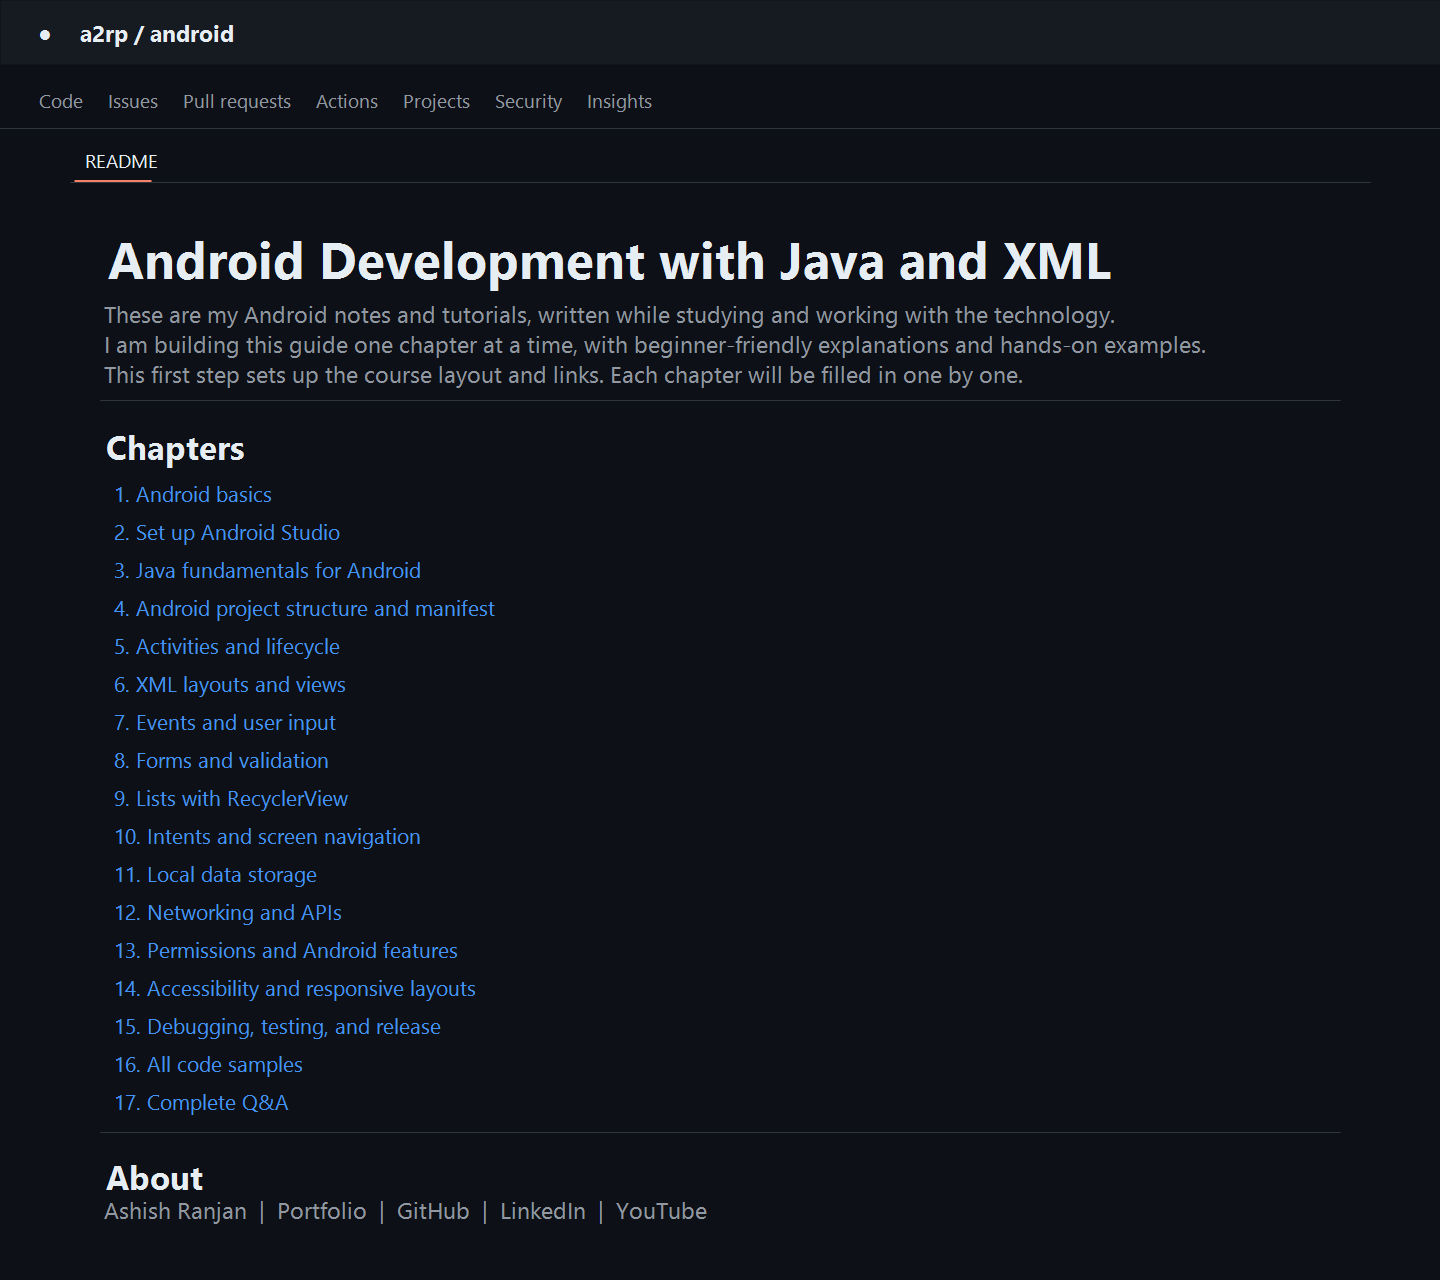
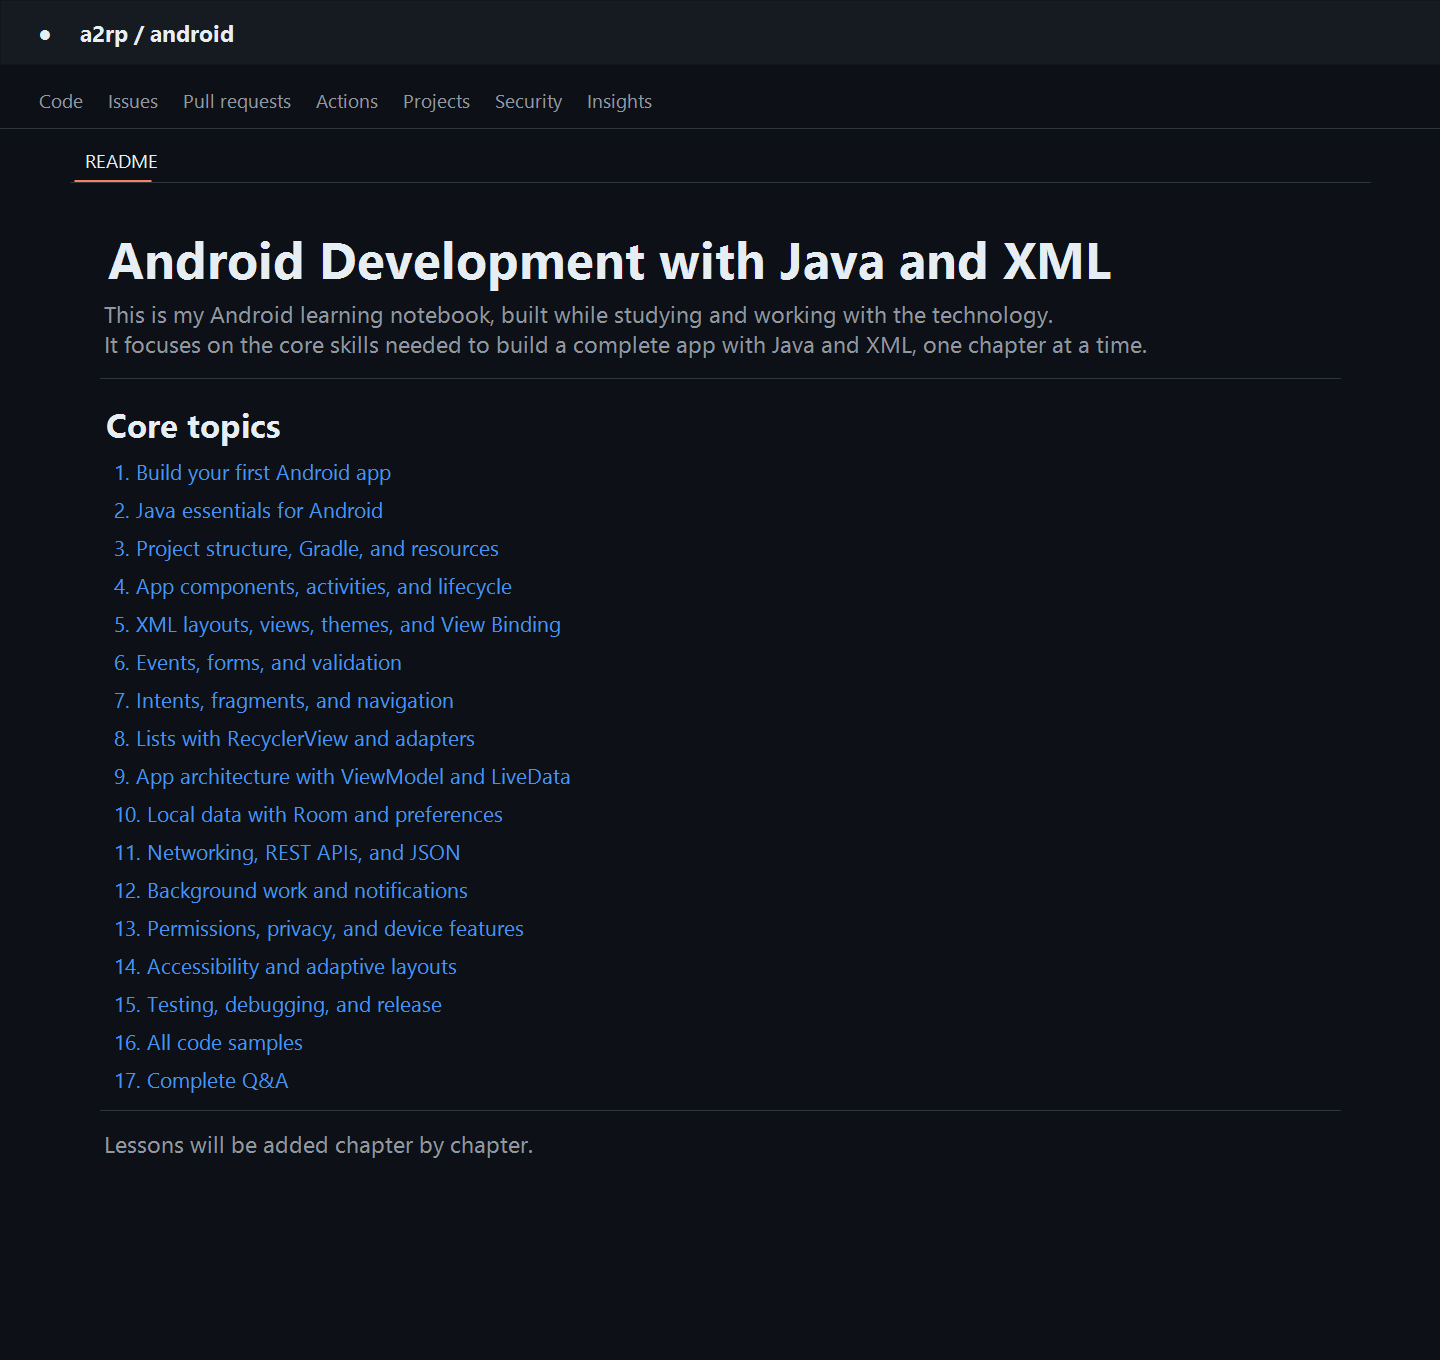
Refine Android course to core topics

diff --git a/README.md b/README.md
@@ -1,28 +1,28 @@
 # Android Development with Java and XML
 
-These are my Android notes and tutorials, written while studying and working with the technology. I am building this guide one chapter at a time, with beginner-friendly explanations and hands-on examples.
+This is my Android learning notebook, built while studying and working with the technology. It focuses on the core skills needed to build a complete app with Java and XML, with each chapter added step by step.
 
-This first step sets up the course layout and links. Each chapter will be filled in one by one.
+## Core topics
 
-## Chapters
-
-1. [Android basics](chapters/01-android-basics.md)
-2. [Set up Android Studio](chapters/02-setup-android-studio.md)
-3. [Java fundamentals for Android](chapters/03-java-fundamentals.md)
-4. [Android project structure and manifest](chapters/04-project-structure-and-manifest.md)
-5. [Activities and lifecycle](chapters/05-activities-and-lifecycle.md)
-6. [XML layouts and views](chapters/06-xml-layouts-and-views.md)
-7. [Events and user input](chapters/07-events-and-user-input.md)
-8. [Forms and validation](chapters/08-forms-and-validation.md)
-9. [Lists with RecyclerView](chapters/09-lists-and-recyclerview.md)
-10. [Intents and screen navigation](chapters/10-intents-and-navigation.md)
-11. [Local data storage](chapters/11-local-data-storage.md)
-12. [Networking and APIs](chapters/12-networking-and-apis.md)
-13. [Permissions and Android features](chapters/13-permissions-and-platform-features.md)
-14. [Accessibility and responsive layouts](chapters/14-accessibility-and-responsive-layouts.md)
-15. [Debugging, testing, and release](chapters/15-debugging-testing-and-release.md)
+1. [Build your first Android app](chapters/01-first-android-app.md)
+2. [Java essentials for Android](chapters/02-java-for-android.md)
+3. [Project structure, Gradle, and resources](chapters/03-project-structure-and-resources.md)
+4. [App components, activities, and lifecycle](chapters/04-activities-and-lifecycle.md)
+5. [XML layouts, views, themes, and View Binding](chapters/05-xml-layouts-and-viewbinding.md)
+6. [Events, forms, and validation](chapters/06-events-forms-and-validation.md)
+7. [Intents, fragments, and navigation](chapters/07-navigation-intents-and-fragments.md)
+8. [Lists with RecyclerView and adapters](chapters/08-recyclerview-and-adapters.md)
+9. [App architecture with ViewModel and LiveData](chapters/09-architecture-viewmodel-livedata.md)
+10. [Local data with Room and preferences](chapters/10-local-data-room-and-preferences.md)
+11. [Networking, REST APIs, and JSON](chapters/11-networking-and-rest-apis.md)
+12. [Background work and notifications](chapters/12-background-work-and-notifications.md)
+13. [Permissions, privacy, and device features](chapters/13-permissions-and-device-features.md)
+14. [Accessibility and adaptive layouts](chapters/14-accessibility-and-adaptive-ui.md)
+15. [Testing, debugging, and release](chapters/15-debugging-testing-and-release.md)
 16. [All code samples](chapters/98-all-code-samples.md)
 17. [Complete Q&A](chapters/99-complete-q-and-a.md)
+
+The course outline is ready first. I will add the lessons one chapter at a time, with clear explanations and hands-on examples.
 
 ## About
 
@@ -32,3 +32,4 @@ Created by [Ashish Ranjan](https://www.ashishranjan.net/).
 - [GitHub](https://github.com/a2rp)
 - [LinkedIn](https://www.linkedin.com/in/aashishranjan)
 - [YouTube](https://www.youtube.com/@ashishranjan-ashz)
+

diff --git a/chapters/15-debugging-testing-and-release.md b/chapters/15-debugging-testing-and-release.md
@@ -1,8 +1,9 @@
-# 15. Debugging, testing, and release
+# 15. Testing, debugging, and release
 
 [Back to course index](../README.md)
 
 ---
 
-[Previous: Accessibility and responsive layouts](14-accessibility-and-responsive-layouts.md) | [Course index](../README.md) | [Next: All code samples](98-all-code-samples.md)
+[Previous: Accessibility and adaptive layouts](14-accessibility-and-adaptive-ui.md) | [Course index](../README.md) | [Next: All code samples](98-all-code-samples.md)
+
 

diff --git a/chapters/04-activities-and-lifecycle.md b/chapters/04-activities-and-lifecycle.md
@@ -1,0 +1,9 @@
+# 4. App components, activities, and lifecycle
+
+[Back to course index](../README.md)
+
+---
+
+[Previous: Project structure, Gradle, and resources](03-project-structure-and-resources.md) | [Course index](../README.md) | [Next: XML layouts, views, and View Binding](05-xml-layouts-and-viewbinding.md)
+
+

diff --git a/chapters/08-recyclerview-and-adapters.md b/chapters/08-recyclerview-and-adapters.md
@@ -1,0 +1,8 @@
+# 8. Lists with RecyclerView and adapters
+
+[Back to course index](../README.md)
+
+---
+
+[Previous: Intents, fragments, and navigation](07-navigation-intents-and-fragments.md) | [Course index](../README.md) | [Next: App architecture with ViewModel and LiveData](09-architecture-viewmodel-livedata.md)
+

diff --git a/chapters/13-permissions-and-device-features.md b/chapters/13-permissions-and-device-features.md
@@ -1,0 +1,9 @@
+# 13. Permissions, privacy, and device features
+
+[Back to course index](../README.md)
+
+---
+
+[Previous: Background work and notifications](12-background-work-and-notifications.md) | [Course index](../README.md) | [Next: Accessibility and adaptive layouts](14-accessibility-and-adaptive-ui.md)
+
+

diff --git a/chapters/09-architecture-viewmodel-livedata.md b/chapters/09-architecture-viewmodel-livedata.md
@@ -1,0 +1,8 @@
+# 9. App architecture with ViewModel and LiveData
+
+[Back to course index](../README.md)
+
+---
+
+[Previous: Lists with RecyclerView and adapters](08-recyclerview-and-adapters.md) | [Course index](../README.md) | [Next: Local data with Room and preferences](10-local-data-room-and-preferences.md)
+

diff --git a/chapters/11-networking-and-rest-apis.md b/chapters/11-networking-and-rest-apis.md
@@ -1,0 +1,9 @@
+# 11. Networking, REST APIs, and JSON
+
+[Back to course index](../README.md)
+
+---
+
+[Previous: Local data with Room and preferences](10-local-data-room-and-preferences.md) | [Course index](../README.md) | [Next: Background work and notifications](12-background-work-and-notifications.md)
+
+

diff --git a/chapters/14-accessibility-and-adaptive-ui.md b/chapters/14-accessibility-and-adaptive-ui.md
@@ -1,0 +1,8 @@
+# 14. Accessibility and adaptive layouts
+
+[Back to course index](../README.md)
+
+---
+
+[Previous: Permissions and Android device features](13-permissions-and-device-features.md) | [Course index](../README.md) | [Next: Debugging, testing, and release](15-debugging-testing-and-release.md)
+

diff --git a/chapters/05-xml-layouts-and-viewbinding.md b/chapters/05-xml-layouts-and-viewbinding.md
@@ -1,0 +1,9 @@
+# 5. XML layouts, views, themes, and View Binding
+
+[Back to course index](../README.md)
+
+---
+
+[Previous: Activities and the Android lifecycle](04-activities-and-lifecycle.md) | [Course index](../README.md) | [Next: Events, forms, and validation](06-events-forms-and-validation.md)
+
+

diff --git a/chapters/10-local-data-room-and-preferences.md b/chapters/10-local-data-room-and-preferences.md
@@ -1,0 +1,8 @@
+# 10. Local data with Room and preferences
+
+[Back to course index](../README.md)
+
+---
+
+[Previous: App architecture with ViewModel and LiveData](09-architecture-viewmodel-livedata.md) | [Course index](../README.md) | [Next: Networking and REST APIs](11-networking-and-rest-apis.md)
+

diff --git a/chapters/06-events-forms-and-validation.md b/chapters/06-events-forms-and-validation.md
@@ -1,0 +1,8 @@
+# 6. Events, forms, and validation
+
+[Back to course index](../README.md)
+
+---
+
+[Previous: XML layouts, views, and View Binding](05-xml-layouts-and-viewbinding.md) | [Course index](../README.md) | [Next: Intents, fragments, and navigation](07-navigation-intents-and-fragments.md)
+

diff --git a/chapters/12-background-work-and-notifications.md b/chapters/12-background-work-and-notifications.md
@@ -1,0 +1,8 @@
+# 12. Background work and notifications
+
+[Back to course index](../README.md)
+
+---
+
+[Previous: Networking and REST APIs](11-networking-and-rest-apis.md) | [Course index](../README.md) | [Next: Permissions and Android device features](13-permissions-and-device-features.md)
+
